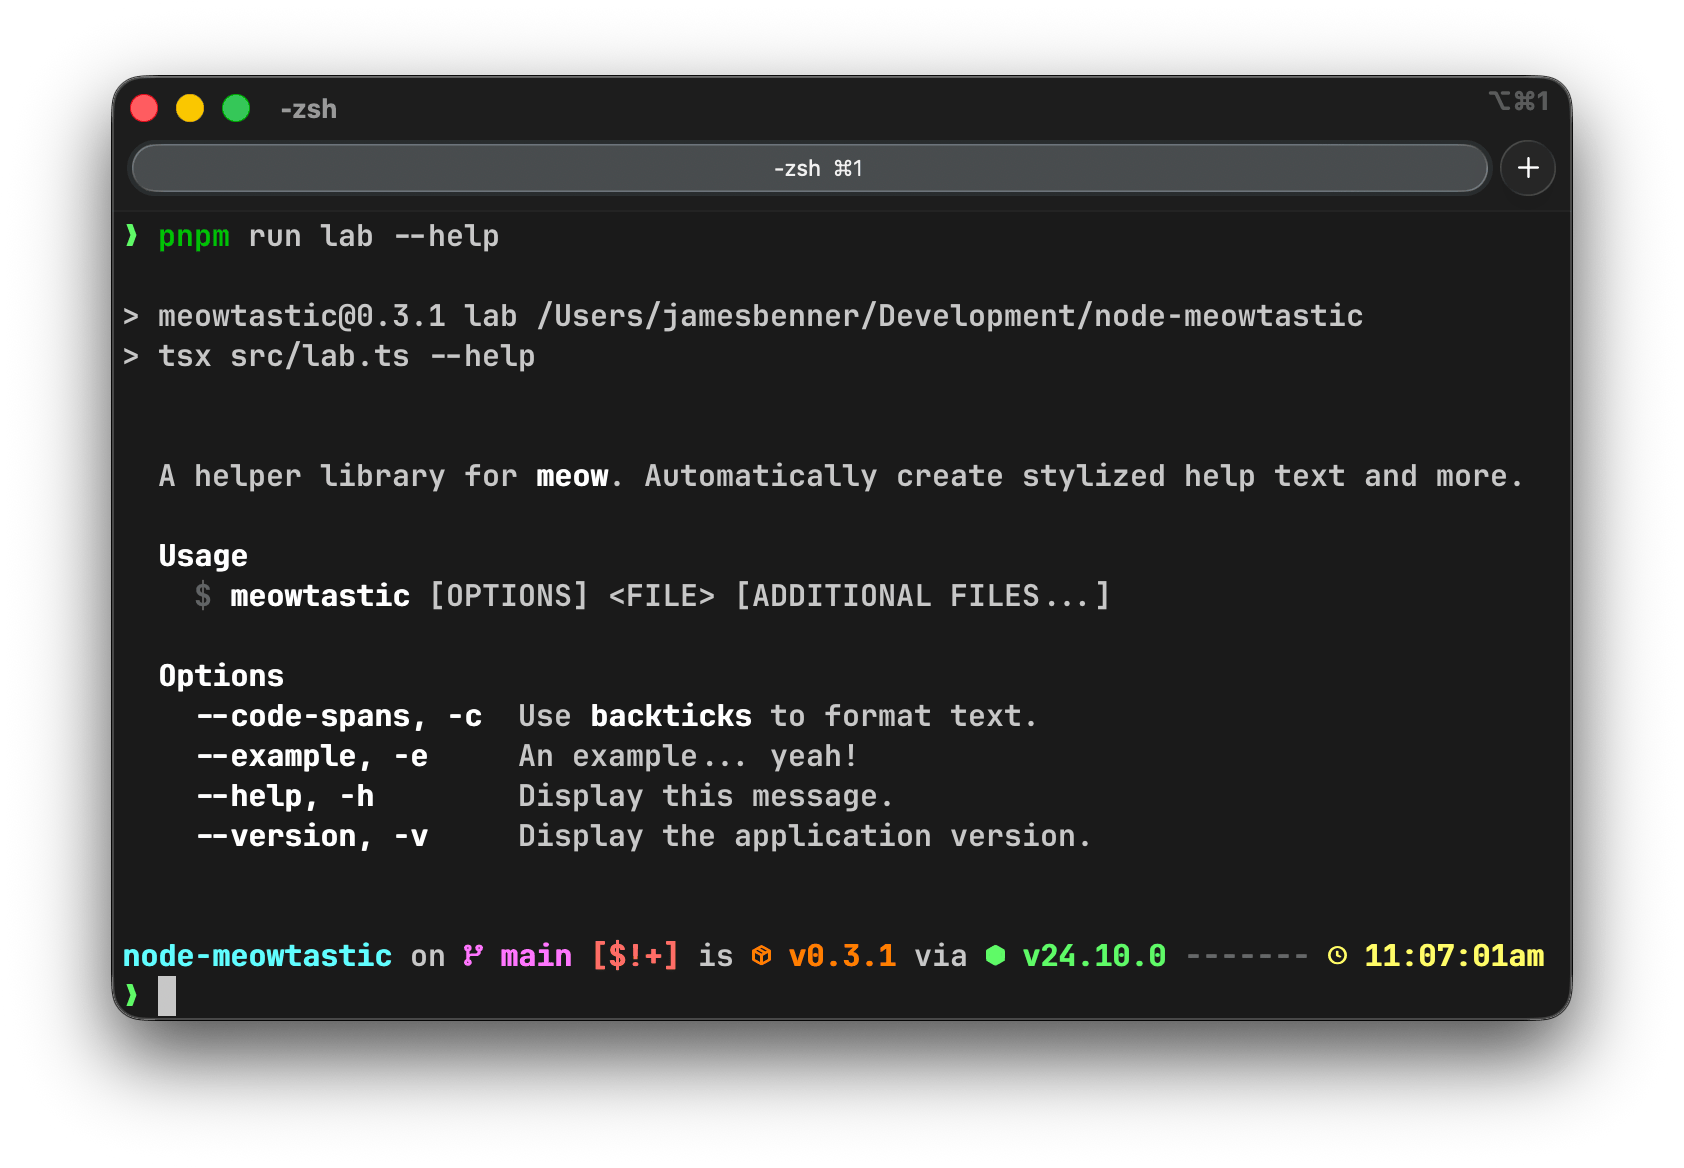
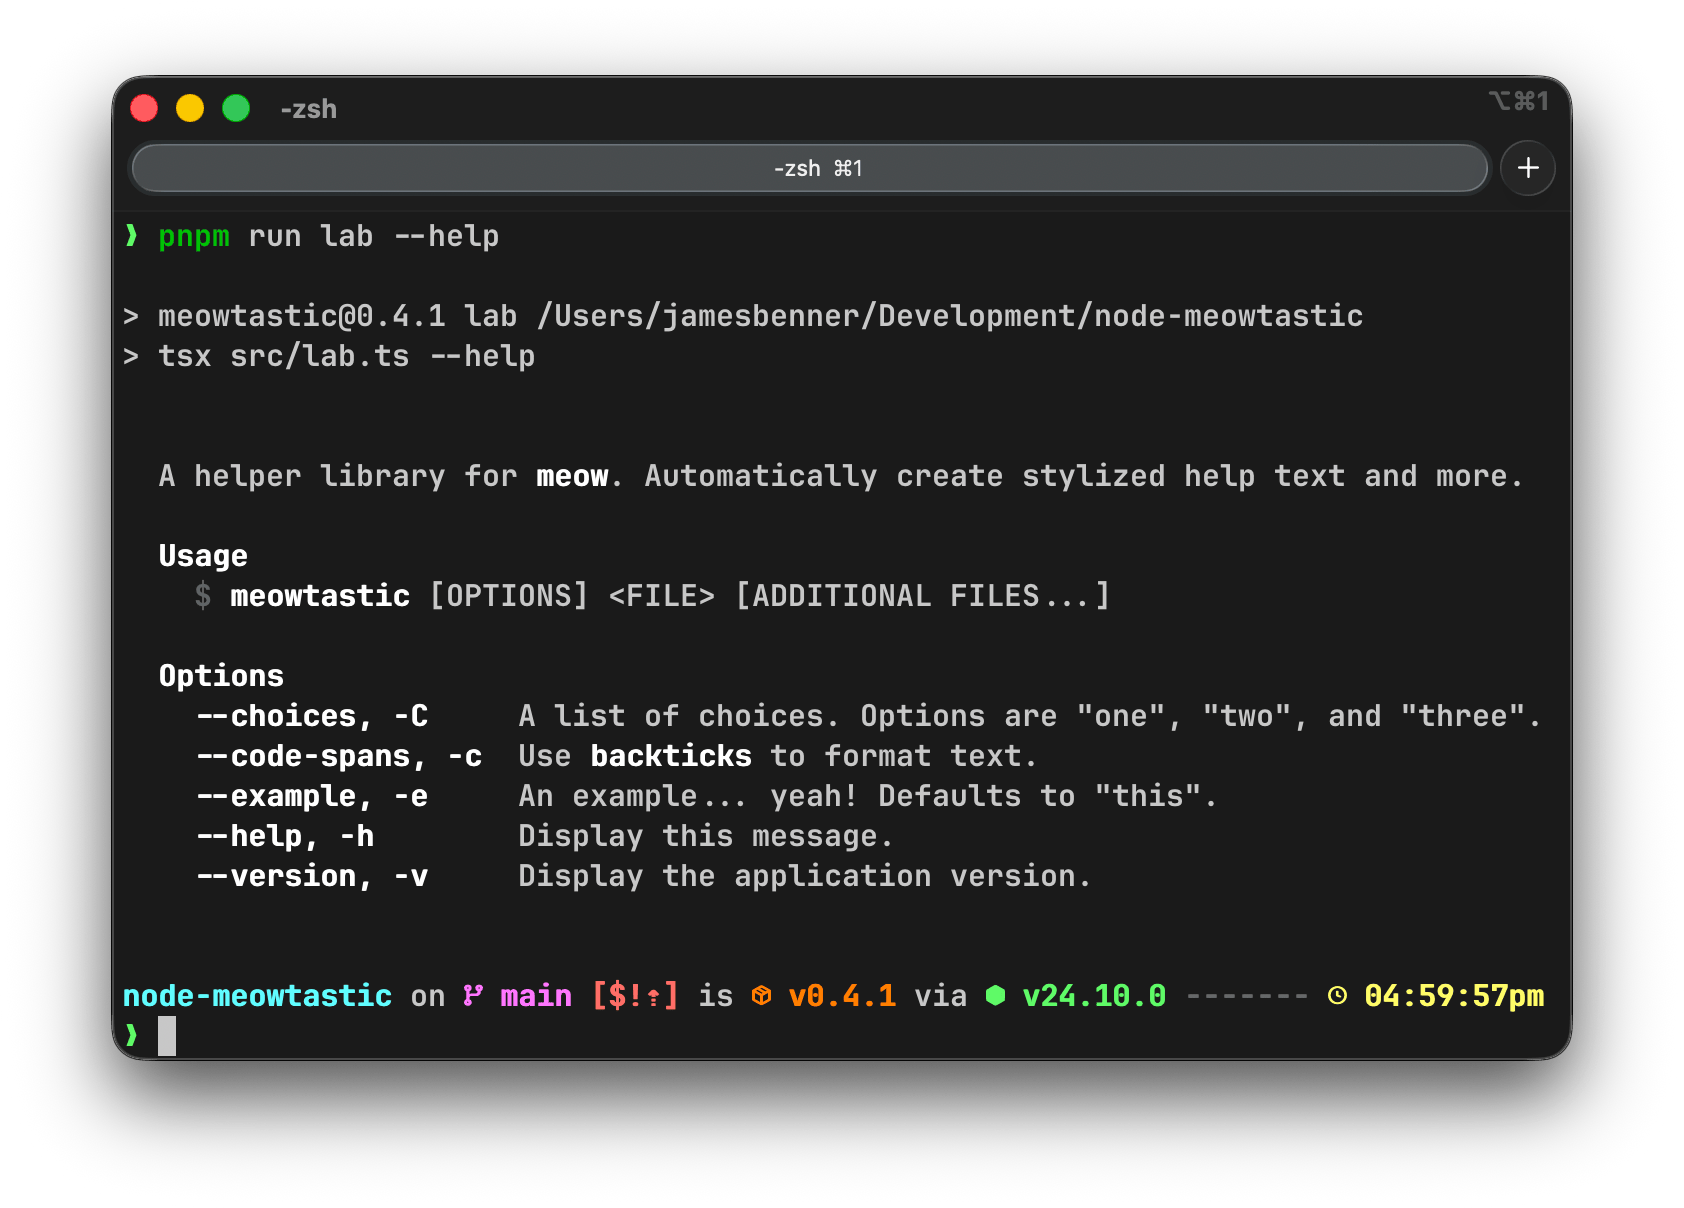
Add default variable support

diff --git a/src/options.ts b/src/options.ts
@@ -1,4 +1,5 @@
 import {
+  DEFAULT_VARIABLE,
   FLAG_CHOICES_AND_LIST_VARIABLE,
   FLAG_CHOICES_OR_LIST_VARIABLE,
   INDENT_SPACES_COUNT,
@@ -61,6 +62,12 @@ function getOptionsFlagColumn({
 
 function maybeTransformOptionDescription(flag: Flag): string {
   let buffer = [...flag.description ?? ''].join('');
+
+  if (buffer.includes(DEFAULT_VARIABLE)) {
+    const quote = (value: unknown) =>
+      typeof value === 'string' ? `"${value}"` : '`' + String(value) + '`';
+    buffer = buffer.replaceAll(DEFAULT_VARIABLE, flag.default ? quote(flag.default) : '');
+  }
 
   if (buffer.includes(FLAG_CHOICES_AND_LIST_VARIABLE)) {
     buffer = buffer.replaceAll(

diff --git a/src/constants.ts b/src/constants.ts
@@ -1,6 +1,8 @@
 import type { TextCaseThemeProperty } from './types.js';
 import process from 'node:process';
 
+export const DEFAULT_VARIABLE = '%DEFAULT%';
+
 export const FLAG_CHOICES_AND_LIST_VARIABLE = '%CHOICES_AND%';
 
 export const FLAG_CHOICES_OR_LIST_VARIABLE = '%CHOICES_OR%';

diff --git a/src/lab.ts b/src/lab.ts
@@ -8,7 +8,8 @@ const config: Config = {
   ],
   flags: {
     example: {
-      description: 'An example... yeah!',
+      default: 'this',
+      description: 'An example... yeah! Defaults to %DEFAULT%.',
       shortFlag: 'e',
       type: 'string'
     },

diff --git a/README.md b/README.md
@@ -16,6 +16,7 @@ Features
 - Provides optional descriptions and short flags for the `help` and `version` flags.
 - Supports the [`NO_COLOR`](https://no-color.org/) environment variable standard.
 - Wraps help text at 80 columns by default, although this can be disabled.
+- Provides variables which expand into the `choices` or `default` values of flags.
 
 Install
 -------
@@ -38,7 +39,8 @@ const config: Config = {
   ],
   flags: {
     example: {
-      description: 'An example... yeah!',
+      default: 'this',
+      description: 'An example... yeah! Defaults to %DEFAULT%.',
       shortFlag: 'e',
       type: 'string'
     },
@@ -46,13 +48,19 @@ const config: Config = {
       description: 'Use `backticks` to format text.',
       shortFlag: 'c',
       type: 'boolean'
+    },
+    choices: {
+      description: 'A list of choices. Options are %CHOICES_AND%.',
+      shortFlag: 'C',
+      type: 'string',
+      choices: ['one', 'two', 'three']
     }
   },
   importMeta: import.meta,
   packageOverrides: {
     bin: { meowtastic: 'path/to/bin' }
   },
-  wrapText: false
+  wrapText: true
 };
 
 meow(...getHelpTextAndOptions(config));
@@ -72,7 +80,8 @@ import {
 const flags: Flags = {
   ...getHelpAndVersionFlags(), // <- Add a description and short flag to `help` and `version`.
   example: {
-    description: 'An example... yeah!',
+    default: 'this',
+    description: 'An example... yeah! Defaults to %DEFAULT%.',
     shortFlag: 'e',
     type: 'string'
   },
@@ -80,6 +89,12 @@ const flags: Flags = {
     description: 'Use `backticks` to format text.',
     shortFlag: 'c',
     type: 'boolean'
+  },
+  choices: {
+    description: 'A list of choices. Options are %CHOICES_AND%.',
+    shortFlag: 'C',
+    type: 'string',
+    choices: ['one', 'two', 'three']
   }
 };
 
@@ -93,7 +108,7 @@ const config: Config = {
   packageOverrides: {
     bin: { meowtastic: 'path/to/bin' }
   },
-  wrapText: false
+  wrapText: true
 };
 
 meow(

diff --git a/CHANGELOG.md b/CHANGELOG.md
@@ -9,6 +9,12 @@ and this project adheres to [Semantic Versioning](https://semver.org/spec/v2.0.0
 [Unreleased]
 ------------
 
+### Added
+
+- The `%DEFAULT%`, `%CHOICES_AND%`, and `%CHOICES_OR%` variables which expand to the default value
+  of a flag, the choices of a flag with an "and" conjunction, and the choices of a flag with an "or"
+  conjunction respectively.
+
 ### Changed
 
 - Compressed example image used in readme.
